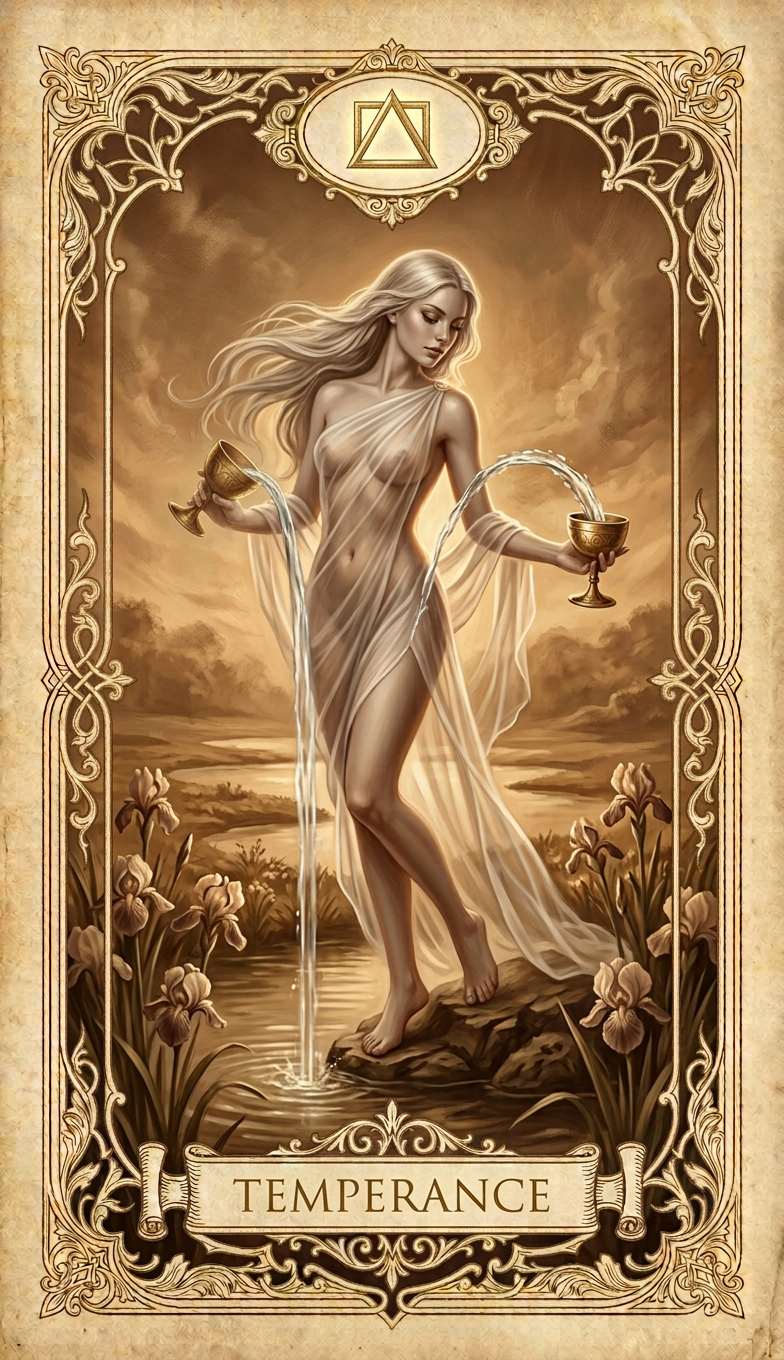
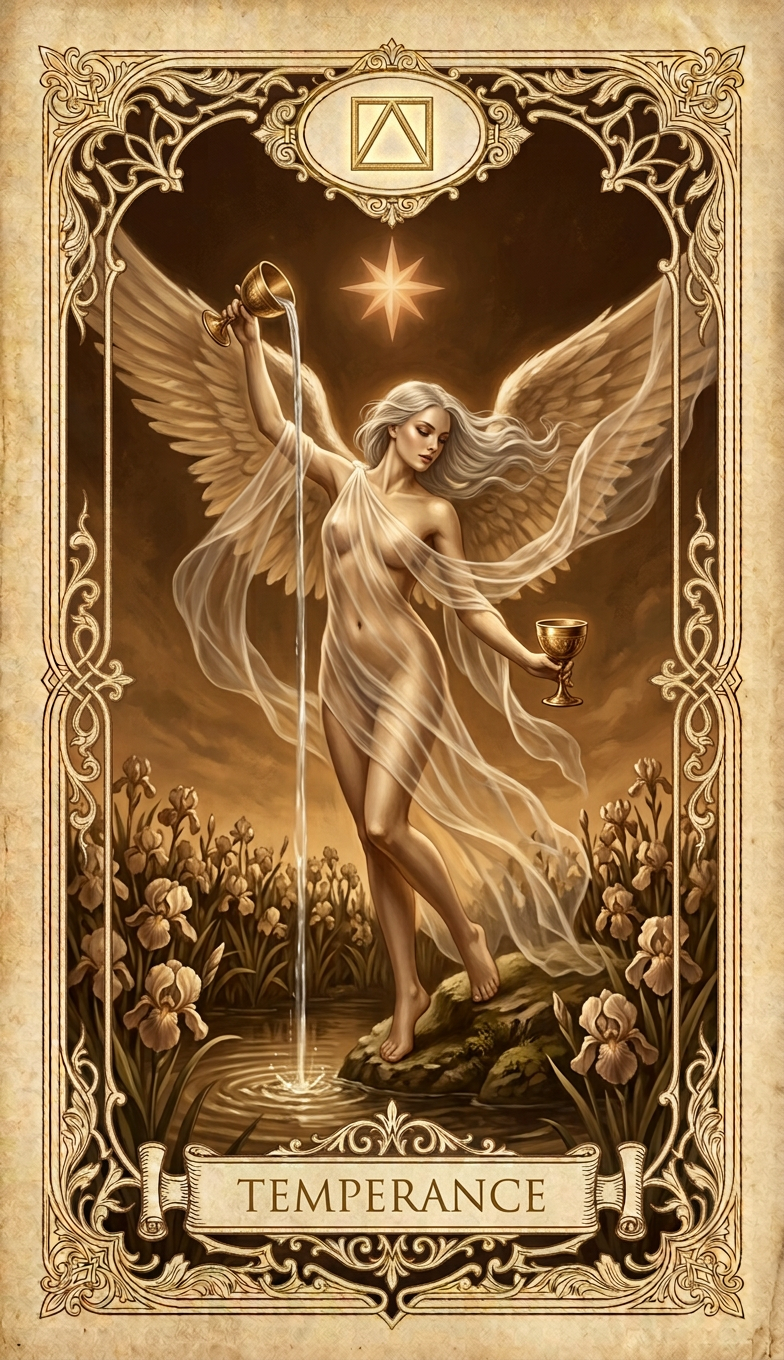
Temperance: fix water pour to a realistic gravity-fall stream
Regenerated Temperance so water flows plausibly: the upper chalice is tilted
high and pours a single unbroken stream straight downward into the lower
chalice held beneath it (no floating arc between level cups). Frame-verified
vs The Star (RMSE 0.036).

diff --git a/cards/index.html b/cards/index.html
@@ -190,7 +190,7 @@
             <div class="card-details">
                 <div class="card-title">TEMPERANCE</div>
                 <div class="card-meta"><strong>Độ tuổi:</strong> 22 years old &bull; <strong>Huy hiệu:</strong> a triangle within a square</div>
-                <div class="card-scene">a graceful winged figure with long loosened hair, draped in a diaphanous transparent silk veil, standing serenely with one foot resting on the rock and the other dipping into the pool below, leaning gently forward as she pours a smooth continuous stream of water between two golden chalices held in her open hands, irises blooming around the pool, warm sepia and ochre light</div>
+                <div class="card-scene">a graceful winged figure with long loosened hair, draped in a diaphanous transparent silk veil, standing with one foot on the rock and the other foot in the pool below, holding one golden chalice tilted high in her upper hand and a second golden chalice held lower beneath it, pouring a single smooth unbroken stream of water that falls straight downward by gravity from the tilted upper chalice's lip into the lower chalice waiting below, irises blooming around the pool, warm sepia and ochre light</div>
             </div>
         </div>
         <div class="card-item">
